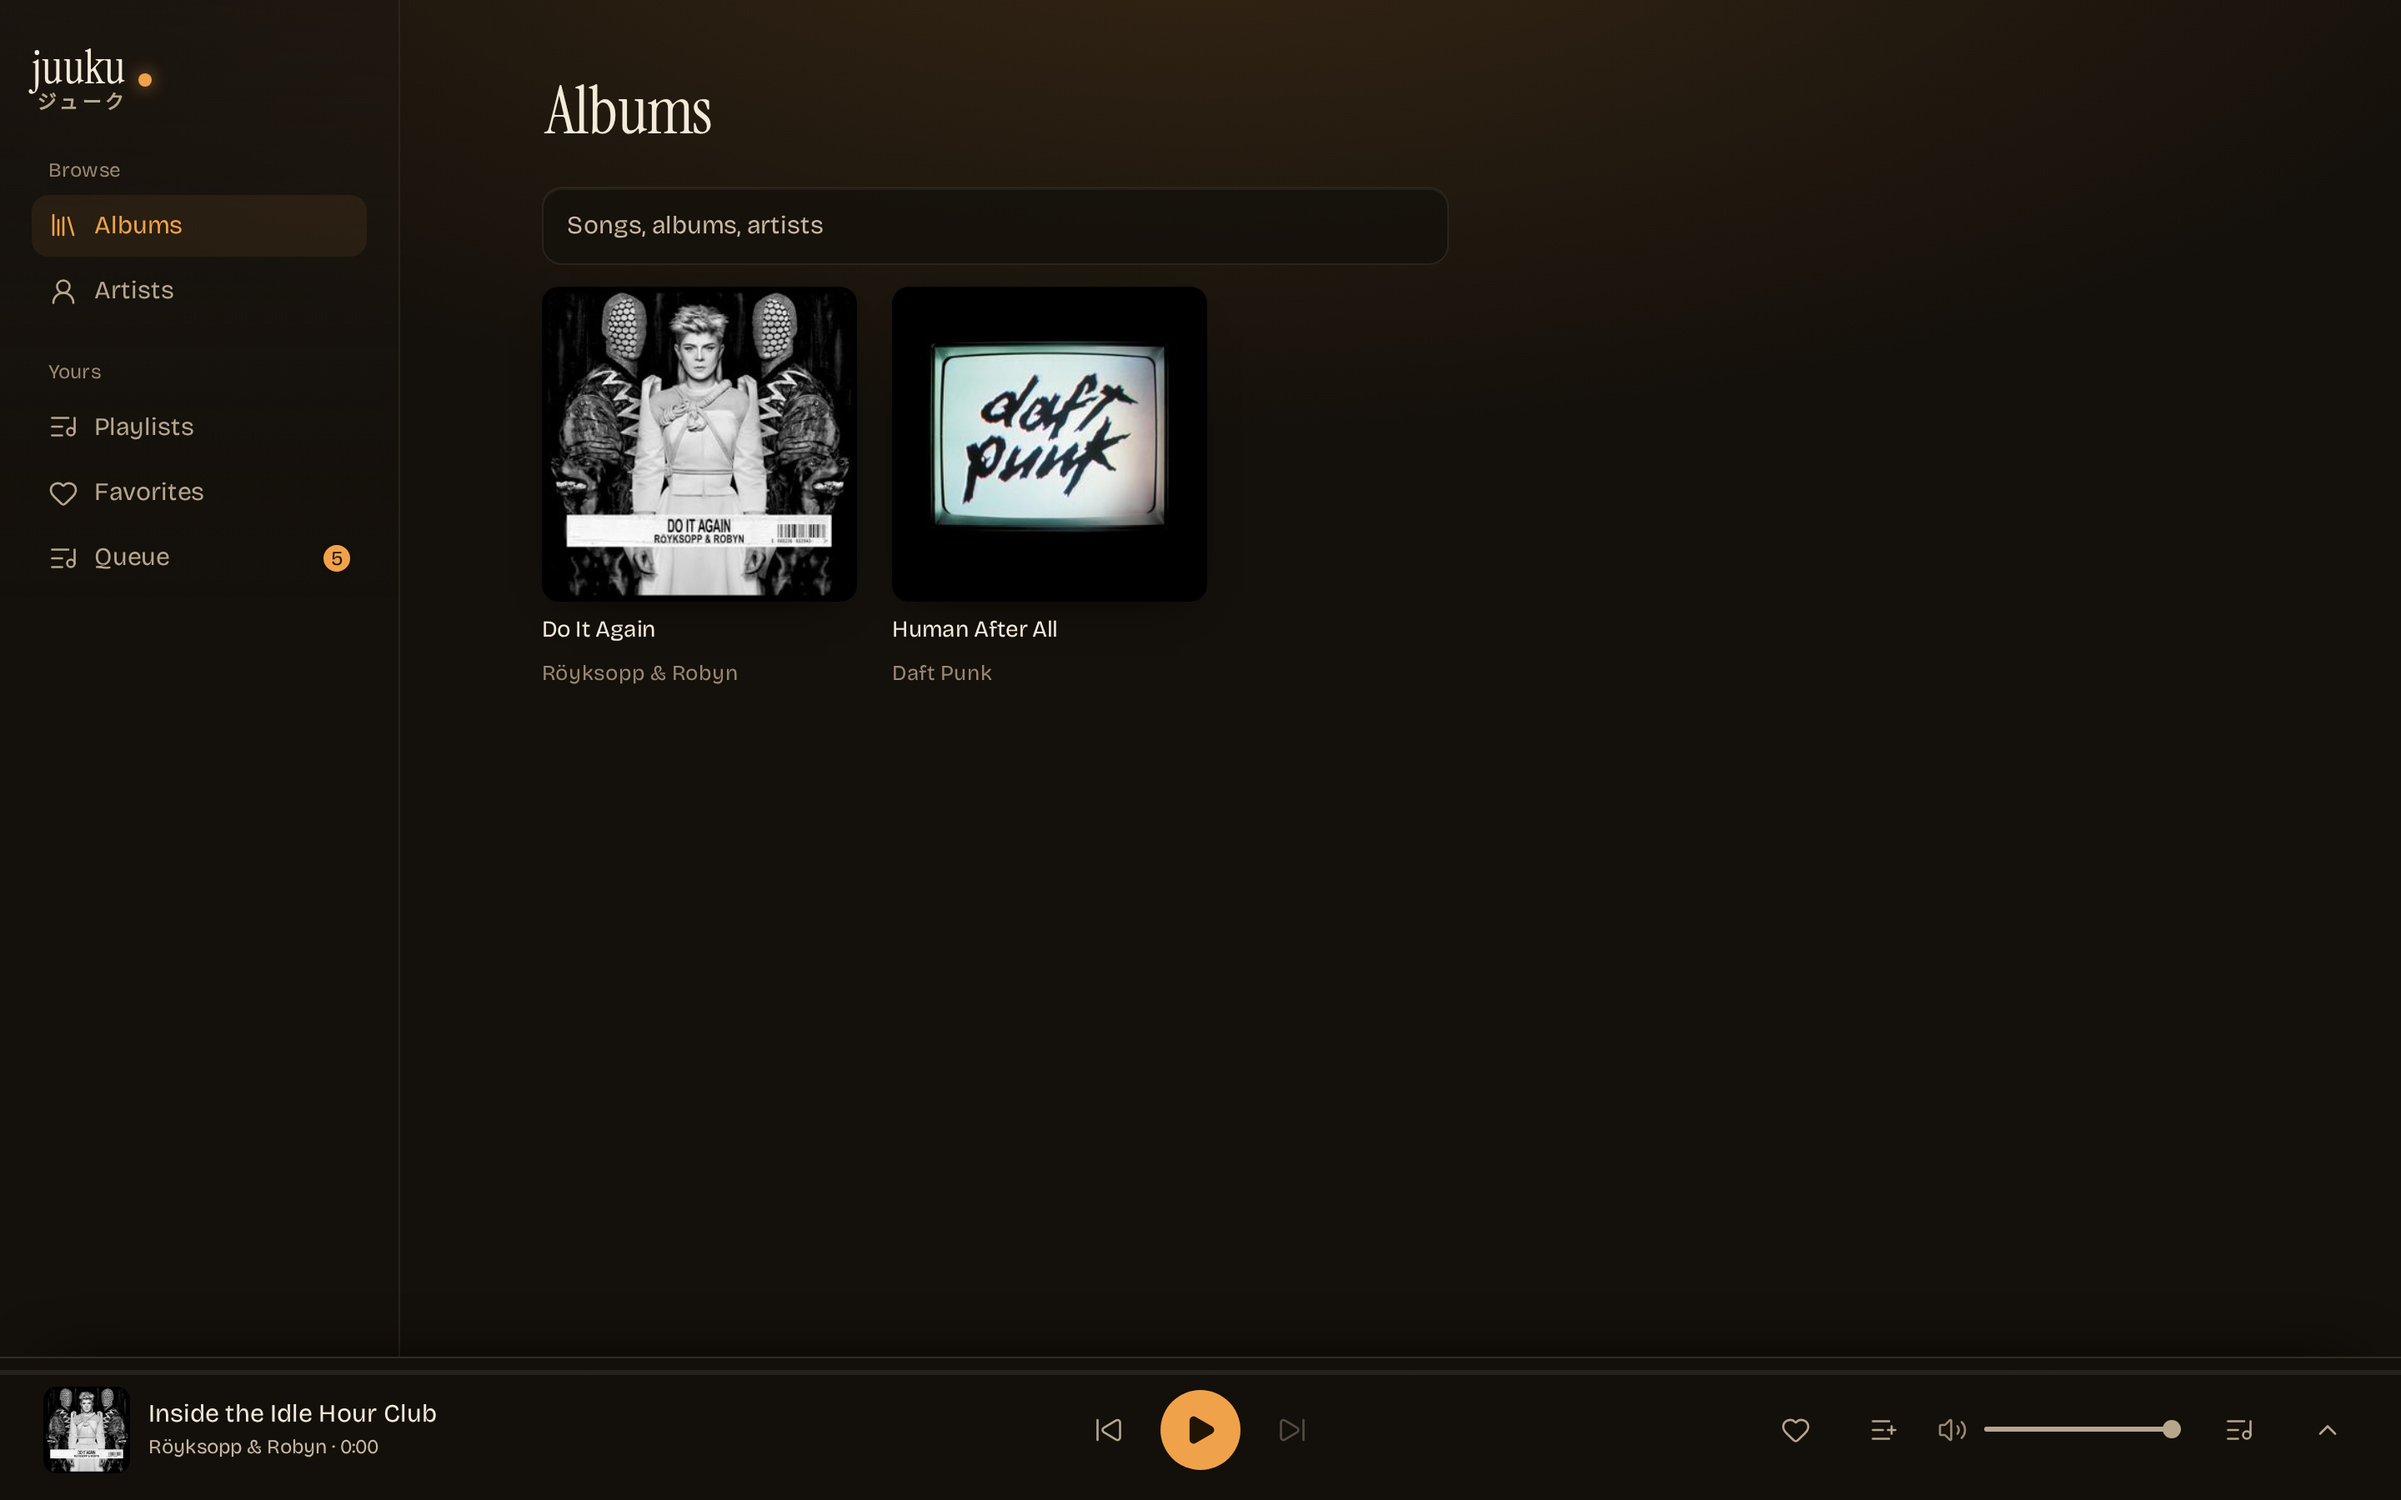
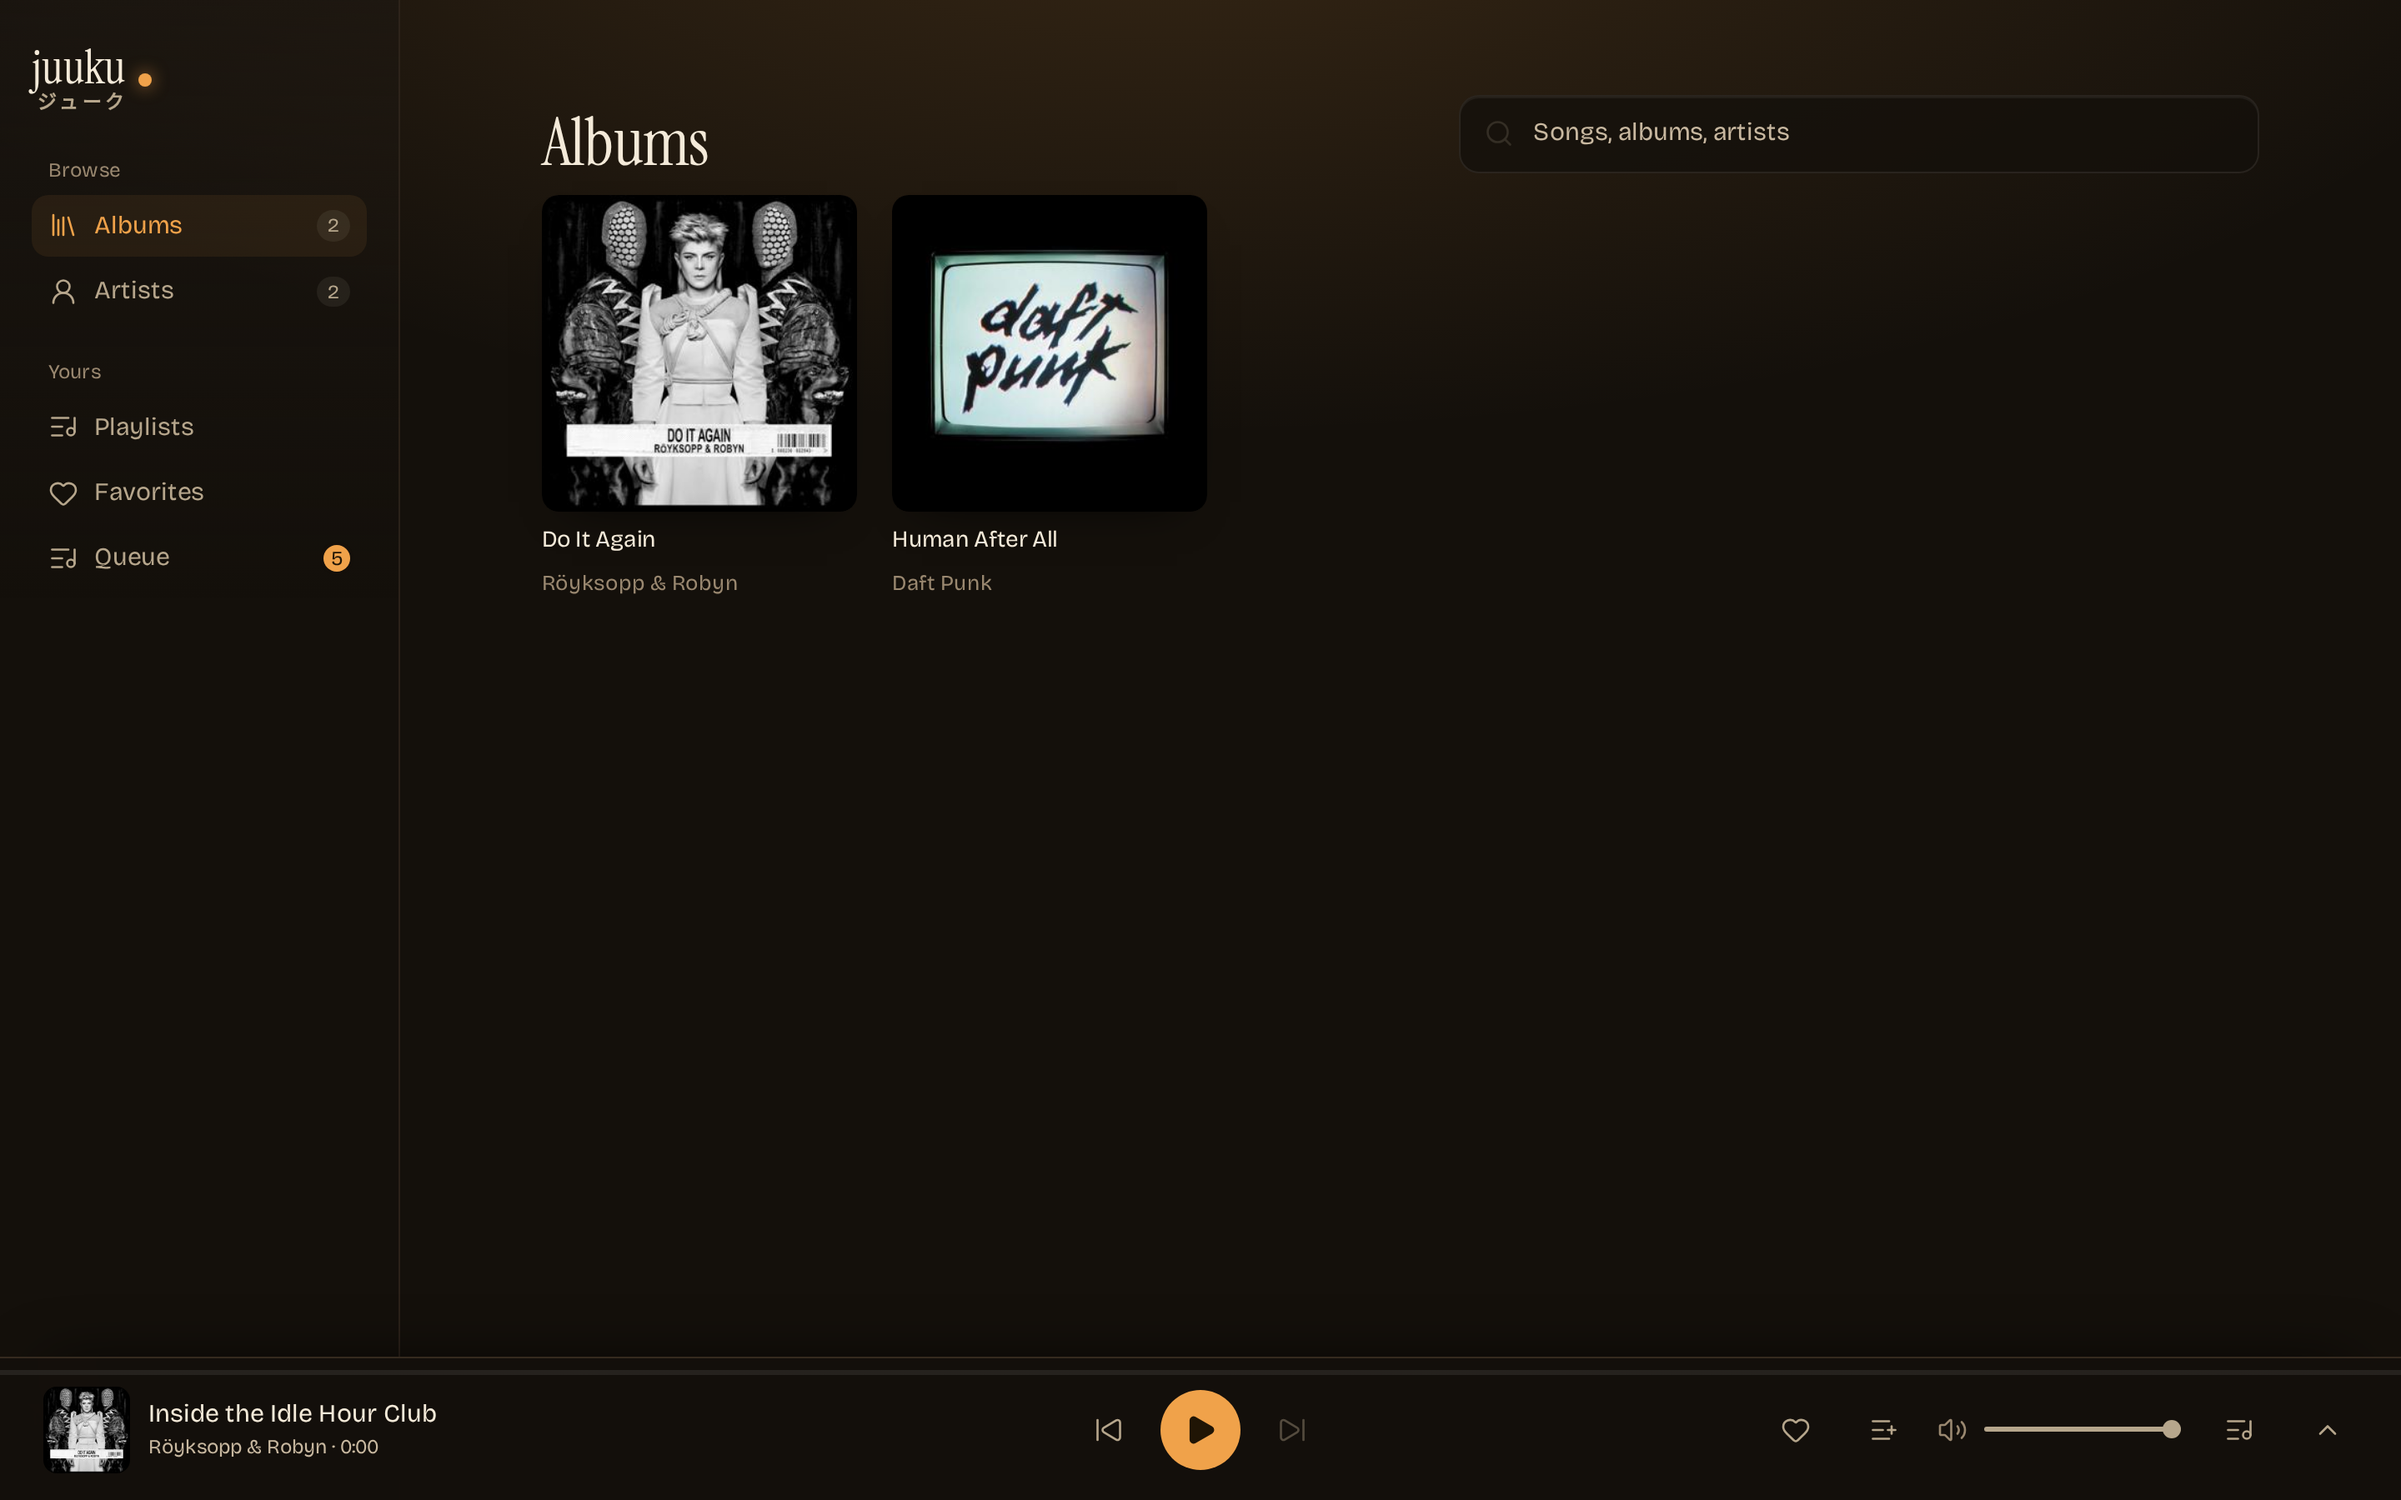
Rail count pills, search glyph, one sticky desktop row
Counts come from one cached hook shared by the rail and the view. The field gains a
search glyph. On desktop the title and search share a sticky row that shrinks when
pinned (72 -> 53px); the phone keeps title-scrolls-away.

Fixes the washed-out title that the first attempt produced: the phone bar's gradient
is absolutely positioned and escaped to the static-parent head, painting over the
title.

Changed region(s): [[0.2188, 0.0622, 0.5, 0.4667], [0.6562, 0.0622, 0.75, 0.0933]]

diff --git a/src/views/Library.tsx b/src/views/Library.tsx
@@ -1,5 +1,7 @@
 import { useEffect, useRef, useState } from 'react';
-import { type Album, type Artist, type Song, coverUrl, getAlbums, getArtists, getCounts, search } from '../api';
+import { type Album, type Artist, type Song, coverUrl, getAlbums, search } from '../api';
+import { SearchIcon } from '../icons';
+import { useCounts } from '../useCounts';
 import { navigate } from '../router';
 import { SongRow } from '../rows';
 import type { Jukebox } from '../useJukebox';
@@ -9,8 +11,7 @@ type Tab = 'albums' | 'artists';
 export function Library({ jbox, tab }: { jbox: Jukebox; tab: Tab }) {
   const [albums, setAlbums] = useState<Album[]>([]);
   const [hasMore, setHasMore] = useState(false);
-  const [artists, setArtists] = useState<Artist[]>([]);
-  const [albumTotal, setAlbumTotal] = useState<number | null>(null);
+  const counts = useCounts();
   const [query, setQuery] = useState('');
   const [results, setResults] = useState<{ songs: Song[]; albums: Album[]; artists: Artist[] } | null>(null);
   const [loading, setLoading] = useState(false);
@@ -34,12 +35,6 @@ export function Library({ jbox, tab }: { jbox: Jukebox; tab: Tab }) {
   }, []);
 
   useEffect(() => {
-    getCounts().then((payload) => setAlbumTotal(payload.albums), () => setAlbumTotal(null));
-    // the artist tab shows this exact list, so the pill counts it too
-    getArtists().then((payload) => setArtists(payload.artists));
-  }, []);
-
-  useEffect(() => {
     const text = query.trim();
     if (!text) {
       setResults(null);
@@ -50,6 +45,10 @@ export function Library({ jbox, tab }: { jbox: Jukebox; tab: Tab }) {
     }, 250);
     return () => window.clearTimeout(timer);
   }, [query]);
+
+  // the hook's list is the one the artist tab renders, so its length is the pill
+  const artists = counts?.artists ?? [];
+  const albumTotal = counts?.albums ?? null;
 
   const loadMore = async () => {
     setLoading(true);
@@ -64,20 +63,22 @@ export function Library({ jbox, tab }: { jbox: Jukebox; tab: Tab }) {
 
   return (
     <div className="view">
-      <header className="view-head">
-        <h1 className="display">{tab === 'albums' ? 'Albums' : 'Artists'}</h1>
-      </header>
-
       <div ref={sentinel} className="library-sentinel" aria-hidden="true" />
-      <div className={`library-bar${stuck ? ' stuck' : ''}`}>
-        <div className="searchbar">
-          <input
-            type="search"
-            value={query}
-            onChange={(event) => setQuery(event.target.value)}
-            placeholder="Songs, albums, artists"
-            aria-label="Search the library"
-          />
+      <div className={`library-head${stuck ? ' stuck' : ''}`}>
+        <header className="view-head">
+          <h1 className="display">{tab === 'albums' ? 'Albums' : 'Artists'}</h1>
+        </header>
+        <div className={`library-bar${stuck ? ' stuck' : ''}`}>
+          <div className="searchbar">
+            <SearchIcon size={18} />
+            <input
+              type="search"
+              value={query}
+              onChange={(event) => setQuery(event.target.value)}
+              placeholder="Songs, albums, artists"
+              aria-label="Search the library"
+            />
+          </div>
         </div>
       </div>
 

diff --git a/src/styles.css b/src/styles.css
@@ -417,6 +417,19 @@ h1.display {
   color: var(--cream);
 }
 
+.searchbar {
+  position: relative;
+}
+
+.searchbar > svg {
+  position: absolute;
+  left: 0.9rem;
+  top: 50%;
+  translate: 0 -50%;
+  color: var(--muted);
+  pointer-events: none;
+}
+
 .searchbar input {
   width: 100%;
   /* the glass belongs to the field, not to a band behind it: covers scroll past
@@ -426,7 +439,8 @@ h1.display {
   -webkit-backdrop-filter: var(--glass-blur);
   border: 1px solid var(--glass-edge);
   border-radius: 12px;
-  padding: 0.72rem 0.9rem;
+  /* left padding clears the search glyph; the shorthand above would reset it */
+  padding: 0.72rem 0.9rem 0.72rem 2.7rem;
   font-size: 0.94rem;
   box-shadow: var(--glass-sheen), 0 16px 34px -26px #000;
 }
@@ -440,6 +454,11 @@ h1.display {
 .library-sentinel {
   height: 1px;
   margin-bottom: -1px;
+}
+
+.library-head {
+  /* no box on phones, so .library-bar keeps sticking to the whole page */
+  display: contents;
 }
 
 .library-bar.stuck::before {
@@ -1888,6 +1907,10 @@ h1.display {
     margin-left: auto;
   }
 
+  .rail-nav .count-pill {
+    margin-left: auto;
+  }
+
   .rail-note {
     margin-top: auto;
     font-size: 0.75rem;
@@ -2177,9 +2200,68 @@ h1.display {
     padding: 1rem 1rem 1.1rem;
   }
 
-  .library-bar .searchbar {
-    /* full-width was a 1000px field on a wide screen */
-    max-width: 34rem;
+  .library-head {
+    display: grid;
+    grid-template-columns: minmax(0, 1fr) minmax(0, 30rem);
+    align-items: end;
+    gap: 0 1.2rem;
+    position: sticky;
+    top: 0;
+    z-index: 7;
+    padding: 0.75rem 0 0.7rem;
+  }
+
+  .library-head .view-head {
+    padding: 0;
+  }
+
+  /* the bar is no longer the sticky element on desktop; the row is. Its gradient
+     is absolutely positioned, so left in place it would escape this static parent
+     and paint over the title. */
+  .library-head .library-bar {
+    position: static;
+    padding: 0 0 0.15rem;
+  }
+
+  .library-head .library-bar::before {
+    display: none;
+  }
+
+  .library-head .display {
+    transition: font-size var(--dur-2) var(--ease);
+    font-size: 2.5rem;
+  }
+
+  /* the pinned row shrinks instead of eating a quarter of the screen */
+  .library-head.stuck {
+    padding: 0.5rem 0 0.45rem;
+  }
+
+  .library-head.stuck .display {
+    font-size: 1.5rem;
+  }
+
+  .library-head.stuck .searchbar input {
+    padding-top: 0.42rem;
+    padding-bottom: 0.42rem;
+    font-size: 0.88rem;
+  }
+
+  .library-head.stuck::before {
+    content: '';
+    position: absolute;
+    /* the fade starts below the row, so the shrunken title never sits on artwork */
+    inset: 0 -1.15rem -1.5rem;
+    z-index: -1;
+    pointer-events: none;
+    background: linear-gradient(
+      to bottom,
+      rgba(20, 16, 11, 1) 0%,
+      rgba(20, 16, 11, 0.98) 55%,
+      rgba(20, 16, 11, 0.92) 74%,
+      rgba(20, 16, 11, 0.55) 90%,
+      rgba(20, 16, 11, 0) 100%
+    );
   }
 
   .player {

diff --git a/src/App.tsx b/src/App.tsx
@@ -4,6 +4,7 @@ import { ArtistIcon, HeartIcon, LibraryIcon, PlaylistIcon, QueueIcon, RefreshIco
 import { TrackActions, TrackActionsProvider } from './TrackActions';
 import type { Song } from './api';
 import { navigate, useRoute } from './router';
+import { useCounts } from './useCounts';
 import { useJukebox } from './useJukebox';
 import { AlbumView } from './views/AlbumView';
 import { ArtistView } from './views/ArtistView';
@@ -33,6 +34,7 @@ export default function App() {
   const jbox = useJukebox();
   const { route } = useRoute();
   const [lyricsOpen, setLyricsOpen] = useState(false);
+  const counts = useCounts();
   const [trackActions, setTrackActions] = useState<{
     songs: Song[];
     playlistId?: string;
@@ -123,6 +125,12 @@ export default function App() {
                 >
                   <Icon size={18} />
                   {label}
+                  {path === '/library/albums' && counts?.albums != null && (
+                    <span className="count-pill">{counts.albums}</span>
+                  )}
+                  {path === '/library/artists' && counts && counts.artists.length > 0 && (
+                    <span className="count-pill">{counts.artists.length}</span>
+                  )}
                   {path === '/queue' && count > 0 && (
                     <span className="badge" key={count}>
                       {count}

diff --git a/src/useCounts.ts b/src/useCounts.ts
@@ -1,0 +1,39 @@
+import { useEffect, useState } from 'react';
+import { type Artist, getArtists, getCounts } from './api';
+
+export interface Counts {
+  albums: number | null;
+  artists: Artist[];
+}
+
+// the rail and the library tabs both want these, so fetch once per session
+let cached: Counts | null = null;
+let inflight: Promise<Counts> | null = null;
+
+function load() {
+  inflight ??= Promise.all([getCounts(), getArtists()])
+    .then(([totals, list]) => {
+      cached = { albums: totals.albums, artists: list.artists };
+      return cached;
+    })
+    .catch(() => {
+      cached = { albums: null, artists: [] };
+      return cached;
+    });
+  return inflight;
+}
+
+export function useCounts(): Counts | null {
+  const [counts, setCounts] = useState<Counts | null>(cached);
+  useEffect(() => {
+    if (cached) return;
+    let alive = true;
+    void load().then((value) => {
+      if (alive) setCounts(value);
+    });
+    return () => {
+      alive = false;
+    };
+  }, []);
+  return counts;
+}

diff --git a/docs/CHANGELOG.md b/docs/CHANGELOG.md
@@ -4,6 +4,11 @@ Newest first. Tags: **Feature**, **Fix**, **Break**.
 
 ## 2026-10-17
 
+- **Feature** — count pills everywhere the browse switch appears: the phone tabs and the desktop rail both show albums/artists totals, from one cached fetch (a module-level hook shared by the rail and the view).
+- **Feature** — a search glyph inside the field.
+- **Change** — on desktop the title and the search share one sticky row, and the row shrinks when pinned (title 2.5rem → 1.5rem, field padding and font down too), taking 53px instead of 72px. The phone keeps its behaviour: title scrolls away, only the field pins.
+- **Fix** — the *first* attempt at that row left the title grey and washed out: the phone bar's gradient is absolutely positioned, and with the bar made static on desktop it escaped to the sticky head and painted over the title. It is now disabled at that breakpoint, with the row carrying its own fade.
+
 - **Feature** — the library's Albums/Artists switch carries count pills. The album number comes from `GET /api/counts`, which reads Navidrome's own `X-Total-Count` (Subsonic never reports totals) and is cached for five minutes; it returns `null` on a non-Navidrome server, and the pill simply does not render. The artist number is the length of the list the tab actually shows — Navidrome's native artist total counts every credit row (827 on the main library against 73 browsable artists), so it would have been a lie next to a list of 73.
 
 - **Change** — the pinned search is a floating glass pill now: the band behind it is gone, so covers scroll past and only the field frosts them (no cut edge), and it floats 0.55rem from the top instead of hugging the viewport. Its own tint went to 0.8 alpha because at 0.52 the placeholder over a bright cover measured ~2.5:1; the placeholder uses `--glass-text` for the same reason.
